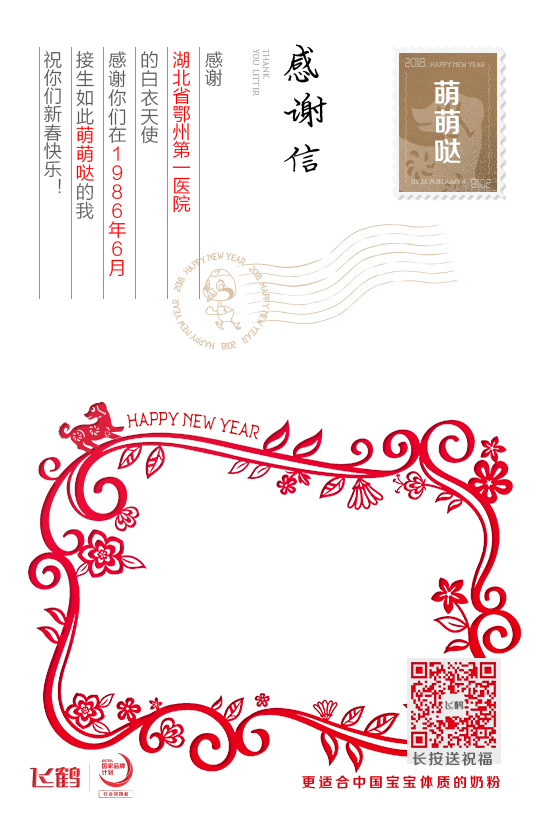
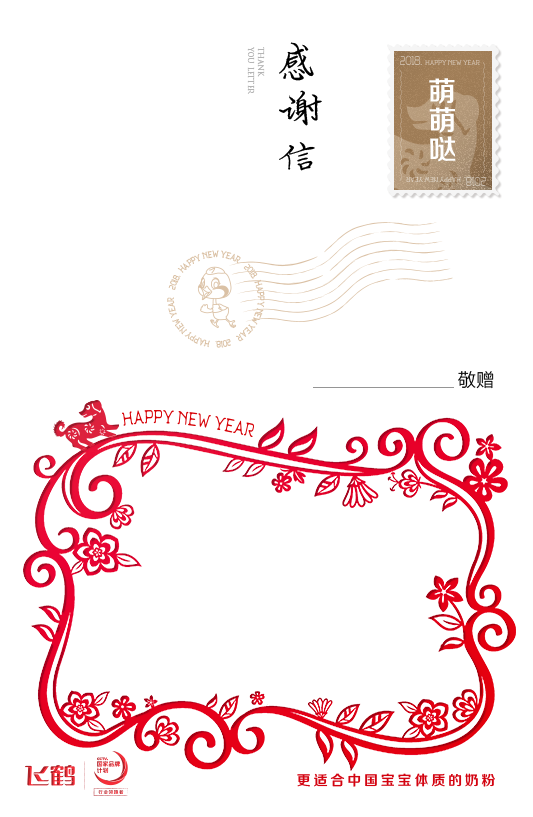
模板更新

diff --git a/src/feihe/js/index.js b/src/feihe/js/index.js
@@ -8,17 +8,37 @@
             },
             after: function(origin,direction,target){
                 console.log("origin:"+origin+",direction:"+direction+",target:"+target);
+                if(target == 4){
+                    // 销毁当前实例
+                    // slide.destroy();
+                }
             },
         });
         window.slide = slide;
 
         slide.slideTo(4);
 
+        var pageIndex = 0;
+
         // 选择模板
         var swiper = new Swiper('.swiper-container', {
+            on: {
+                init: function(){
+                    pageIndex = this.activeIndex;
+                    console.log(pageIndex);
+                    //移动缩放旋转
+                    transformImg();
+                },
+                slideChangeTransitionEnd: function(){
+                    pageIndex = this.activeIndex;
+                    console.log(pageIndex);
+                    //移动缩放旋转
+                    transformImg();
+                },
+            },
             navigation: {
-              nextEl: '.swiper-arrow-next',
-              prevEl: '.swiper-arrow-prev',
+                nextEl: '.swiper-arrow-next',
+                prevEl: '.swiper-arrow-prev',
             },
         });
 
@@ -31,36 +51,76 @@
             var reader = new FileReader();
             reader.readAsDataURL(file);
             reader.onload = function (arg) {
-                // 更换模板
-                $('.templetBg').attr('src', arg.target.result);
-                $('#upload').hide();
+                // 销毁实例
                 swiper.destroy();
+                // 更换模板
+                $(".upload-area").hide().eq(pageIndex).show();
+                $('.templetBg').eq(pageIndex).attr('src', arg.target.result);
+                $('#upload').hide();
                 $(".arrow-left").hide();
                 $(".arrow-right").hide();
             }
         });
 
         //移动缩放旋转
-        var pinchRotateImg = document.querySelector('.templetBg');
-        var mobanImg = document.querySelector(".templetImg");
-        // var pinchRotateImg = document.getElementById('templetBg');
-        // var mobanImg = document.getElementById("templetImg");
-        Transform(pinchRotateImg);
-        new AlloyFinger(mobanImg, {
-            rotate: function (evt) {
-            pinchRotateImg.rotateZ += evt.angle;
-            },
-            multipointStart: function () {
-            initScale = pinchRotateImg.scaleX;
-            },
-            pinch: function (evt) {
-            pinchRotateImg.scaleX = pinchRotateImg.scaleY = initScale * evt.zoom;
-            },
-            pressMove: function (evt) {
-            pinchRotateImg.translateX += evt.deltaX;
-            pinchRotateImg.translateY += evt.deltaY;
-            evt.preventDefault();
-            }
+        // var pinchRotateImg = document.querySelector('.templetBg');
+        // var mobanImg = document.querySelector(".templetImg");
+        function transformImg(){
+            var pinchRotateImg = $('.templetBg')[pageIndex];
+            var mobanImg = $(".templetImg")[pageIndex];
+            Transform(pinchRotateImg);
+            new AlloyFinger(mobanImg, {
+                rotate: function (evt) {
+                pinchRotateImg.rotateZ += evt.angle;
+                },
+                multipointStart: function () {
+                initScale = pinchRotateImg.scaleX;
+                },
+                pinch: function (evt) {
+                pinchRotateImg.scaleX = pinchRotateImg.scaleY = initScale * evt.zoom;
+                },
+                pressMove: function (evt) {
+                pinchRotateImg.translateX += evt.deltaX;
+                pinchRotateImg.translateY += evt.deltaY;
+                evt.preventDefault();
+                }
+            });
+        }
+
+        //生成图片
+        $('#templet-card').click(function () {
+            // console.log(document.getElementById('templet-card').value)
+            if (!document.getElementById('upload').files.length) return alert('请上传图片在合成！');
+            html2canvas($(".upload-area")[pageIndex], {
+                backgroundColor: 'transparent', // 设置背景透明
+            }).then(function (canvas) {
+                $('#resultImg').attr('src', canvas.toDataURL("image/png"));
+
+                // 重新初始化实例
+                // slide = new slidePage({
+                //     useAnimation: true,
+                //     before: function(origin,direction,target){
+                //         console.log("origin:"+origin+",direction:"+direction+",target:"+target);
+                //     },
+                //     after: function(origin,direction,target){
+                //         console.log("origin:"+origin+",direction:"+direction+",target:"+target);
+                //         if(target == 4){
+                //             // 销毁当前实例
+                //             slide.destroy();
+                //             console.log(slide);
+                //         }
+                //     },
+                // });
+                // window.slide = slide;
+
+                // console.log(slide);
+                // 跳到下一页
+                // slide.slideNext();
+                // 传入page页码，滑动定位到对应的page
+                slide.slideTo(5);
+                // $('.page.saveImg ').fadeIn();
+                // $('.page.canvas').fadeOut();
+            });
         });
 
     });

diff --git a/src/feihe/index.html b/src/feihe/index.html
@@ -122,7 +122,7 @@
         <div class="templet-pine">
           <img src="images/templet-pine.png" />
         </div>
-        <div class="templet-card">
+        <div class="templet-card" id="templet-card">
           <img src="images/templet-card.png" />
         </div>
         <div class="templet-lantern3">
@@ -142,9 +142,9 @@
                 <div class="swiper-wrapper">
                   <div class="upload-area swiper-slide">
                     <div class="upload-box upload-box1">
-                      <img src="images/templet-bg2.png" class="templetBg" />
+                      <img src="images/templet-bg1.png" class="templetBg" />
                     </div>
-                    <img src="images/templet2.png" class="templetImg" />
+                    <img src="images/templet1.png" class="templetImg" />
                     <!-- <input type="file" class="fileUpload" id="upload" accept="image/*"> -->
                   </div>
                   <div class="upload-area swiper-slide">
@@ -156,9 +156,9 @@
                   </div>
                   <div class="upload-area swiper-slide">
                     <div class="upload-box upload-box3">
-                      <img src="images/templet-bg2.png" class="templetBg" />
+                      <img src="images/templet-bg3.png" class="templetBg" />
                     </div>
-                    <img src="images/templet2.png" class="templetImg" />
+                    <img src="images/templet3.png" class="templetImg" />
                     <!-- <input type="file" class="fileUpload" id="upload" accept="image/*"> -->
                   </div>
                 </div>

diff --git a/src/feihe/css/index.css b/src/feihe/css/index.css
@@ -1596,7 +1596,7 @@ html, body { width: 100%; height: 100%; overflow: hidden; background: #ffffff; }
 
 .templet .templet-lantern3 { position: absolute; top: 49.9%; left: 75.7%; width: 2rem; z-index: 2; }
 
-.templet .templet-cloud { position: absolute; top: 28.6%; right: 0; width: 5.6rem; z-index: 2; }
+.templet .templet-cloud { position: absolute; top: 28.6%; right: 0; width: 5.6rem; }
 
 .templet .arrow-left { position: absolute; top: 46.6%; left: 3.4%; width: .88rem; }
 
@@ -1612,9 +1612,11 @@ html, body { width: 100%; height: 100%; overflow: hidden; background: #ffffff; }
 
 .templet .uploadBox .swiper-container .upload-area .upload-box .templetBg { display: block; max-width: 100%; width: auto; }
 
-.templet .uploadBox .swiper-container .upload-area .upload-box.upload-box1 { background: url(../images/templet-upload2.png) no-repeat center center/100%; }
+.templet .uploadBox .swiper-container .upload-area .upload-box.upload-box1 { background: url(../images/templet-upload1.png) no-repeat center center/100%; }
 
 .templet .uploadBox .swiper-container .upload-area .upload-box.upload-box2 { background: url(../images/templet-upload2.png) no-repeat center center/100%; }
+
+.templet .uploadBox .swiper-container .upload-area .upload-box.upload-box3 { background: url(../images/templet-upload3.png) no-repeat center center/100%; }
 
 .templet .uploadBox .swiper-container .upload-area .templetImg { position: absolute; top: 0; left: 0; z-index: 2; width: 100%; height: 100%; }
 

diff --git a/src/feihe/scss/index.scss b/src/feihe/scss/index.scss
@@ -287,7 +287,7 @@ html,body{
 		top: 28.6%;
 		right: 0;
 		width: 5.6rem;
-		z-index: 2;
+		// z-index: 2;
 	}
 	.arrow-left{
 		position: absolute;
@@ -338,10 +338,13 @@ html,body{
 						width: auto;
 					}
 					&.upload-box1{
-						background: url(../images/templet-upload2.png) no-repeat center center/100%;
+						background: url(../images/templet-upload1.png) no-repeat center center/100%;
 					}
 					&.upload-box2{
 						background: url(../images/templet-upload2.png) no-repeat center center/100%;
+					}
+					&.upload-box3{
+						background: url(../images/templet-upload3.png) no-repeat center center/100%;
 					}
 				}
 				.templetImg{

diff --git a/src/metro/js/home.js b/src/metro/js/home.js
@@ -517,9 +517,8 @@
 
         // 点击领取礼包
         $("#receive").click("on", function () {
-            // window.location.href = "https://metrochina.vchangyi.com/Metroredpack/Frontend/Index/index?me_id=8";
             // 抽麦穗的测试链接
-            window.location.href = "https://metrochina.vchangyi.com/Metroredpack/Frontend/Index/index?me_id=11";
+            window.location.href = "https://metrochina.vchangyi.com/Metroredpack/Frontend/Index/index?me_id=12";
         });
         // 点击弹出遮罩层
         $("#share").click("on", function () {
